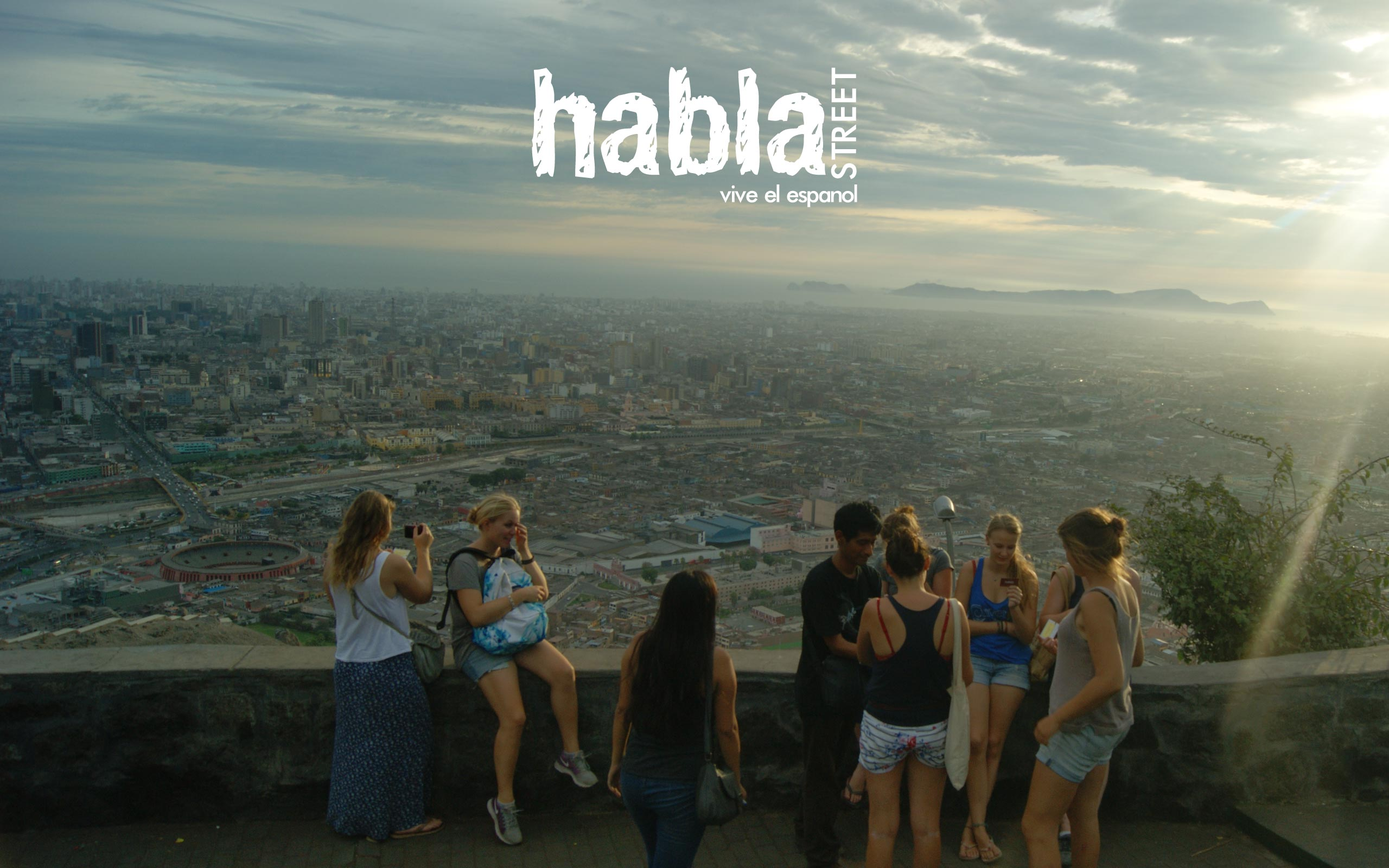
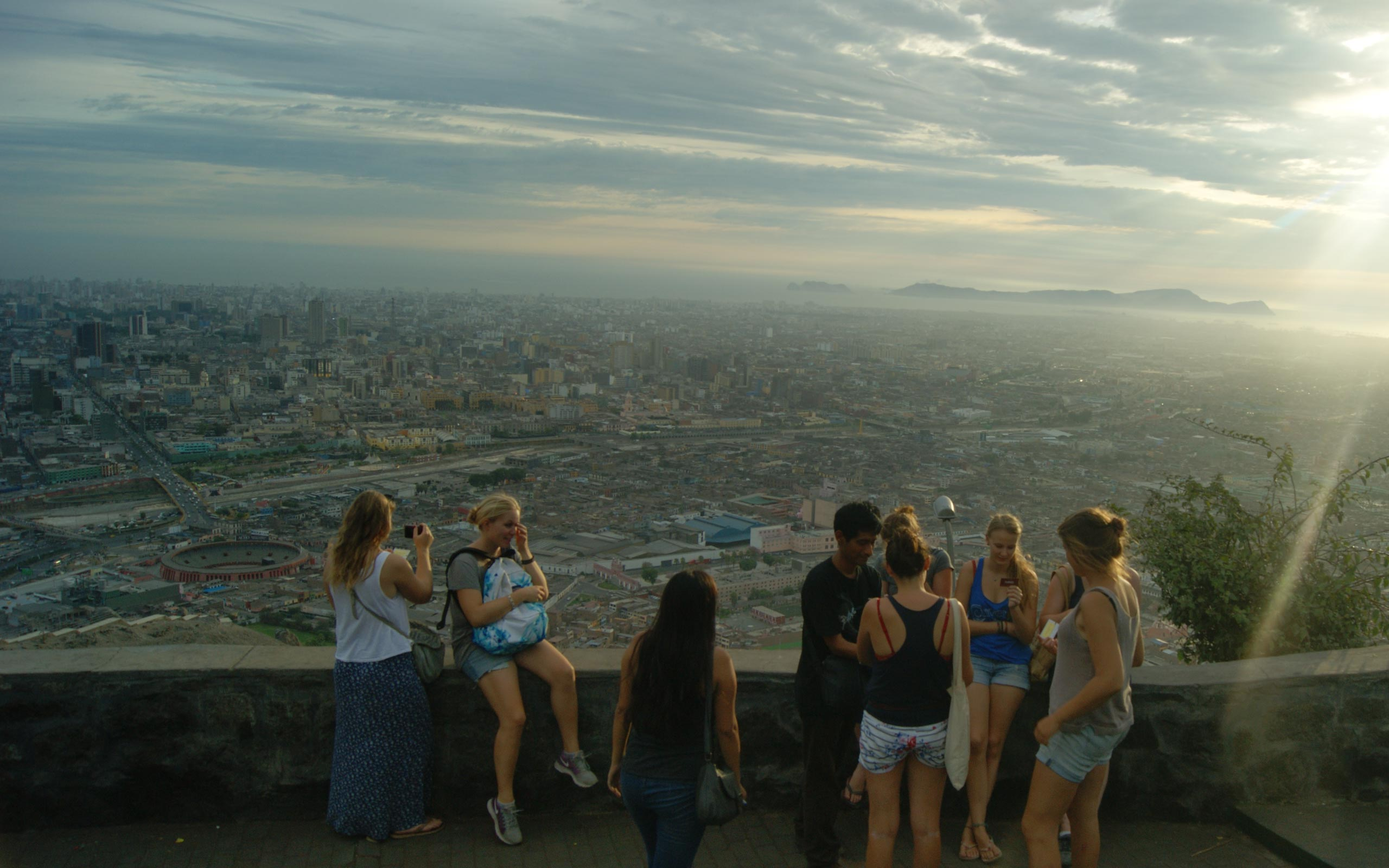
Cambio de Imagen de Fondo y texto

Changed region(s): [[0.375, 0.0625, 0.625, 0.25]]

diff --git a/estilos.css b/estilos.css
@@ -1,6 +1,7 @@
 body
 {
-	background: #B7573C;
+	background: url("hablastreet-escuela-de-español.jpg") no-repeat center;
+	background-size: 1900px;
 	color: #EEE;
 	font-family: Arial;
 	font-size: 16px;
@@ -8,9 +9,9 @@
 }
 header
 {
-	background: url("hablastreet-escuela-de-español.jpg") no-repeat center;
+	background: url("hablastreet.png") no-repeat center;
 	background-size: 200px 200px;
-	height: 200px;
+	height: 150px;
 	width: 100%;
 	margin: 10% 0 0 0;
 }

diff --git a/index.html b/index.html
@@ -11,8 +11,8 @@
 	<header>
 	</header>
 	<section>
-		<h1>clases de español en lima</h1>
-		<h2>vive@hablastreet.com</h2>
+		<h1>escuela de español en lima</h1>
+		<h2></h2>
 	</section>
 </body>
 </hmtl>
